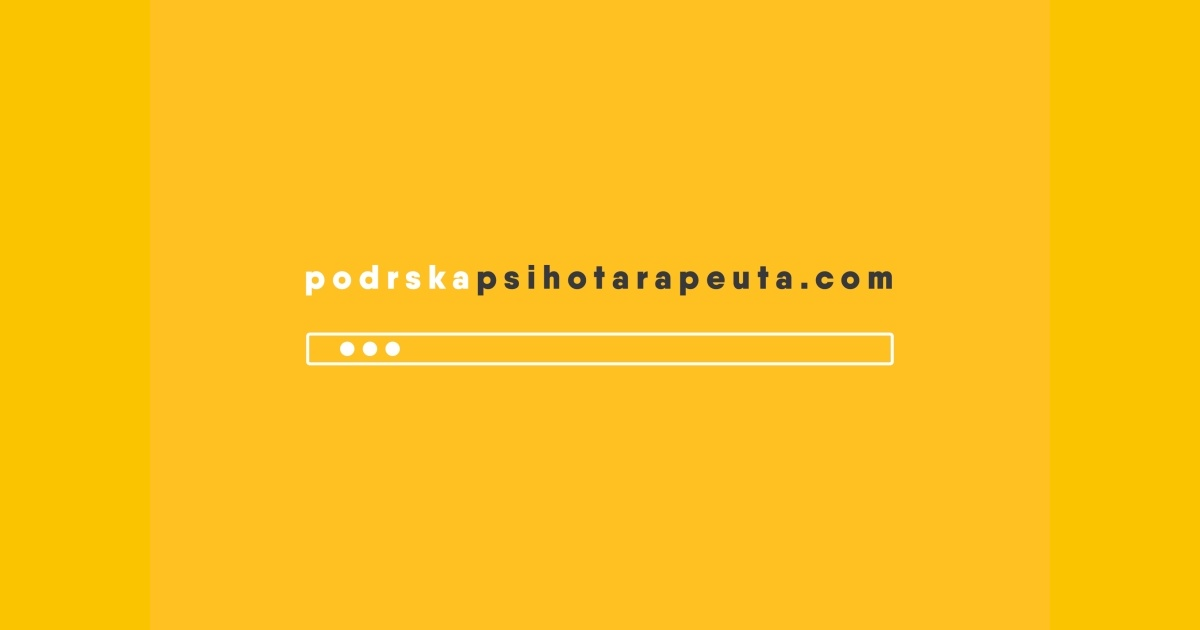
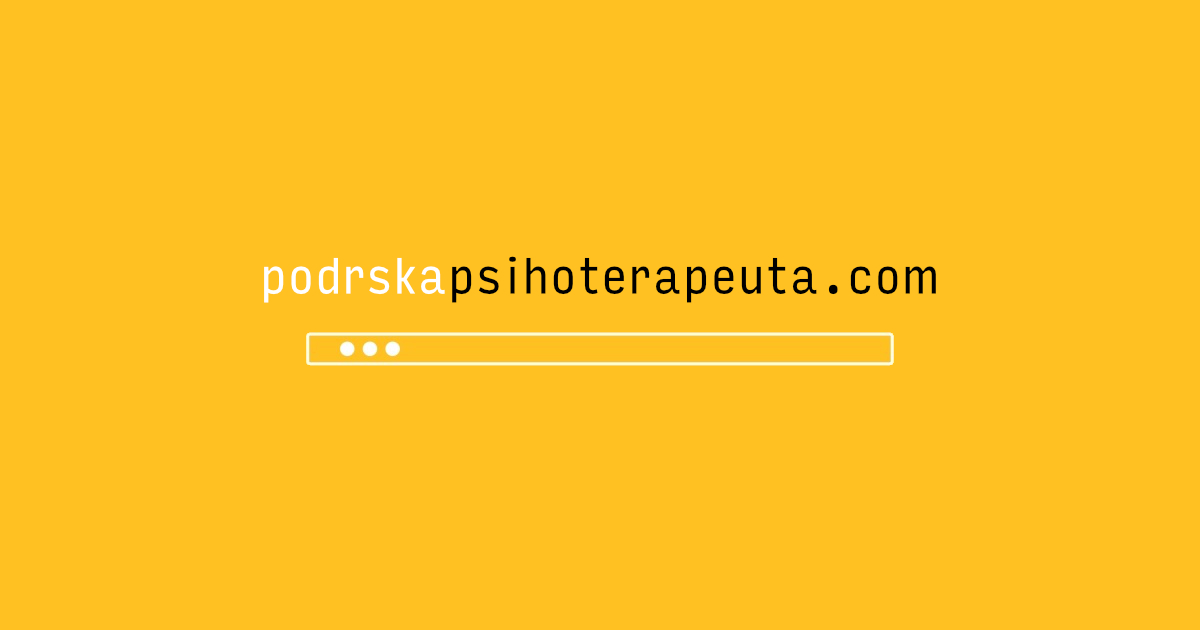
ui

Changed region(s): [[0.8633, 0.0, 1.0, 1.0], [0.0, 0.0, 0.1233, 1.0], [0.2158, 0.4222, 0.8017, 0.4825]]

diff --git a/frontend/public/index.html b/frontend/public/index.html
@@ -35,7 +35,7 @@
     <meta name="theme-color" content="#ffffff">
     <title><%= htmlWebpackPlugin.options.title %></title>
     <meta name="description" content="<%= htmlWebpackPlugin.options.description %>">
-    <link rel="stylesheet" href="https://fonts.googleapis.com/css?family=Roboto:100,300,400,500,700,900">
+    <link rel="stylesheet" href="https://fonts.googleapis.com/css2?family=Poppins:ital,wght@0,400;0,700;1,400&display=swap">
     <link rel="stylesheet" href="https://cdn.jsdelivr.net/npm/@mdi/font@latest/css/materialdesignicons.min.css">
     <link href="https://fonts.googleapis.com/css?family=Material+Icons" rel="stylesheet">
   </head>

diff --git a/frontend/src/styles/variables.scss b/frontend/src/styles/variables.scss
@@ -2,3 +2,5 @@
   text-transform: uppercase;
   font-weight: bold;
 }
+
+$body-font-family: "Poppins", sans-serif;
